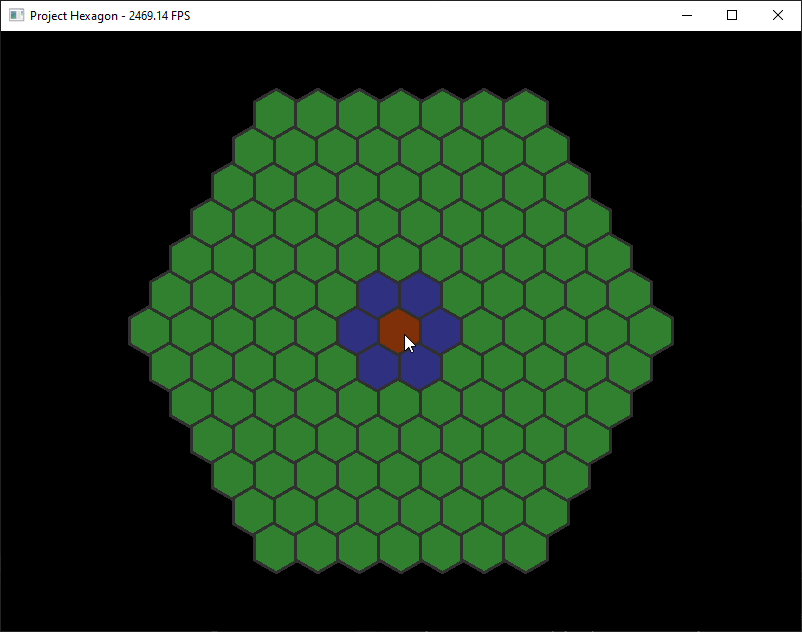
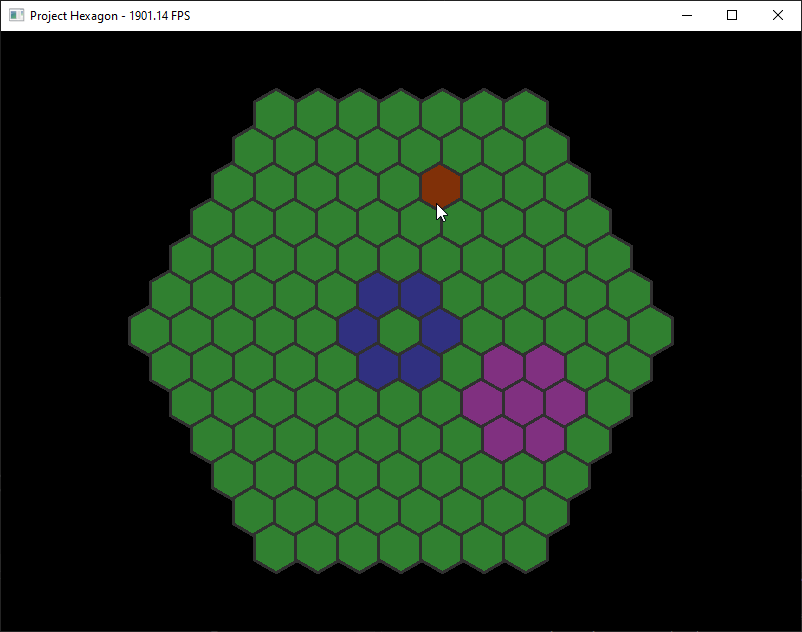
added function return tiles in range

diff --git a/Project-Hexagon/main.cpp b/Project-Hexagon/main.cpp
@@ -1,16 +1,15 @@
 
 #include <iostream>
-#include <fstream>
+
 #include <sstream>
 #include <windows.h>
-#include <conio.h>
 #include <vector>
 #include <algorithm>
 #include <numeric>
 #include <limits>
 #include <string>
 #include <iomanip>
-
+#include <unordered_set>
 #include <SFML/Graphics.hpp>
 
 #include "mouse.hpp"
@@ -125,7 +124,30 @@ class Map {
 		
 		return nullptr;
 	}
-	
+
+	std::unordered_set<Tile*> getTiles(int q, int r, int s, int range) {
+		std::unordered_set<Tile*> set;
+
+		for (int qq = -range; qq <= range; qq++) {
+			for (int rr = -range; rr <= range; rr++) {
+				for (int ss = -range; ss <= range; ss++) {
+					Tile* tile = getTile(q+qq, r+rr, s+ss);
+					if (tile != nullptr)
+						set.insert(tile);
+				}
+			}
+		}
+
+		/*
+		for each - N ≤ q ≤ + N:
+			for each - N ≤ r ≤ + N :
+				for each - N ≤ s ≤ + N :
+					if q + r + s == 0 :
+						results.append(cube_add(center, Cube(q, r, s)))
+		*/
+		return set;
+	}
+
 	sf::Vector2f getSize() {
 		if (tiles.empty())
 			return sf::Vector2f(0.f, 0.f);
@@ -238,10 +260,15 @@ int main() {
 		while (window->pollEvent(event)) {
 			if (event.type == sf::Event::Closed)
 				window->close();
-
-			
 		}
+
+		// update
 		
+		for (auto& t : mapa->getTiles(2, 2, -4, 1)) {
+			t->color = sf::Color(128, 48, 128);
+		}
+
+		// render
 		sf::View v;
 		v = window->getView();
 		v.setCenter(0,0);
